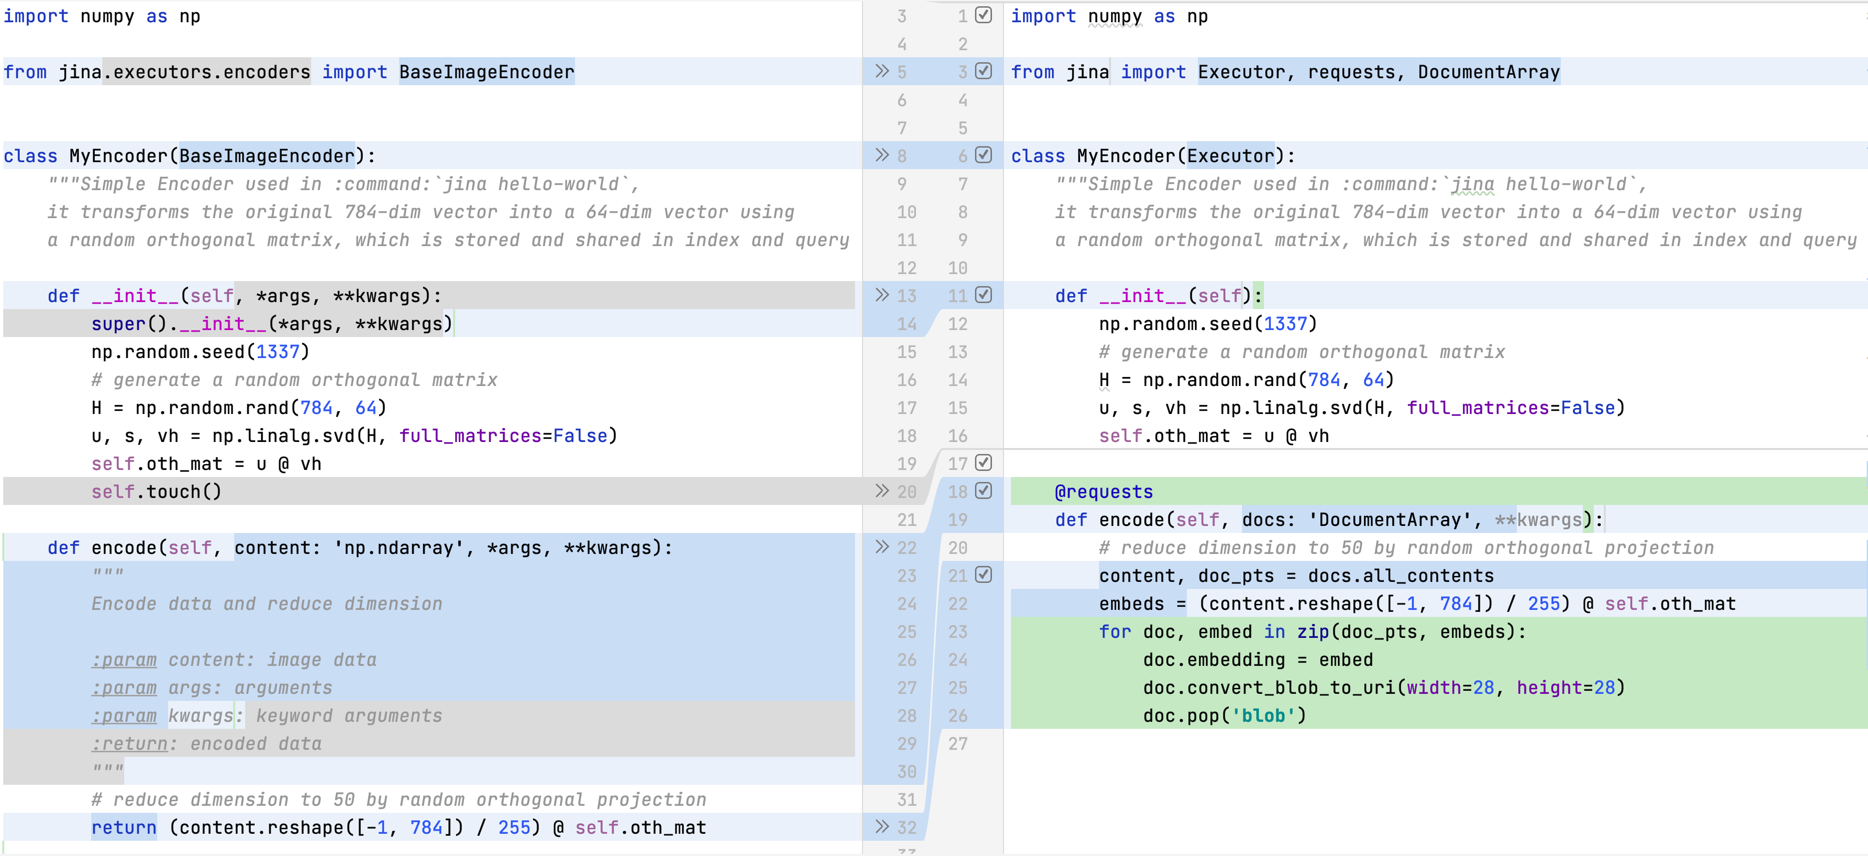
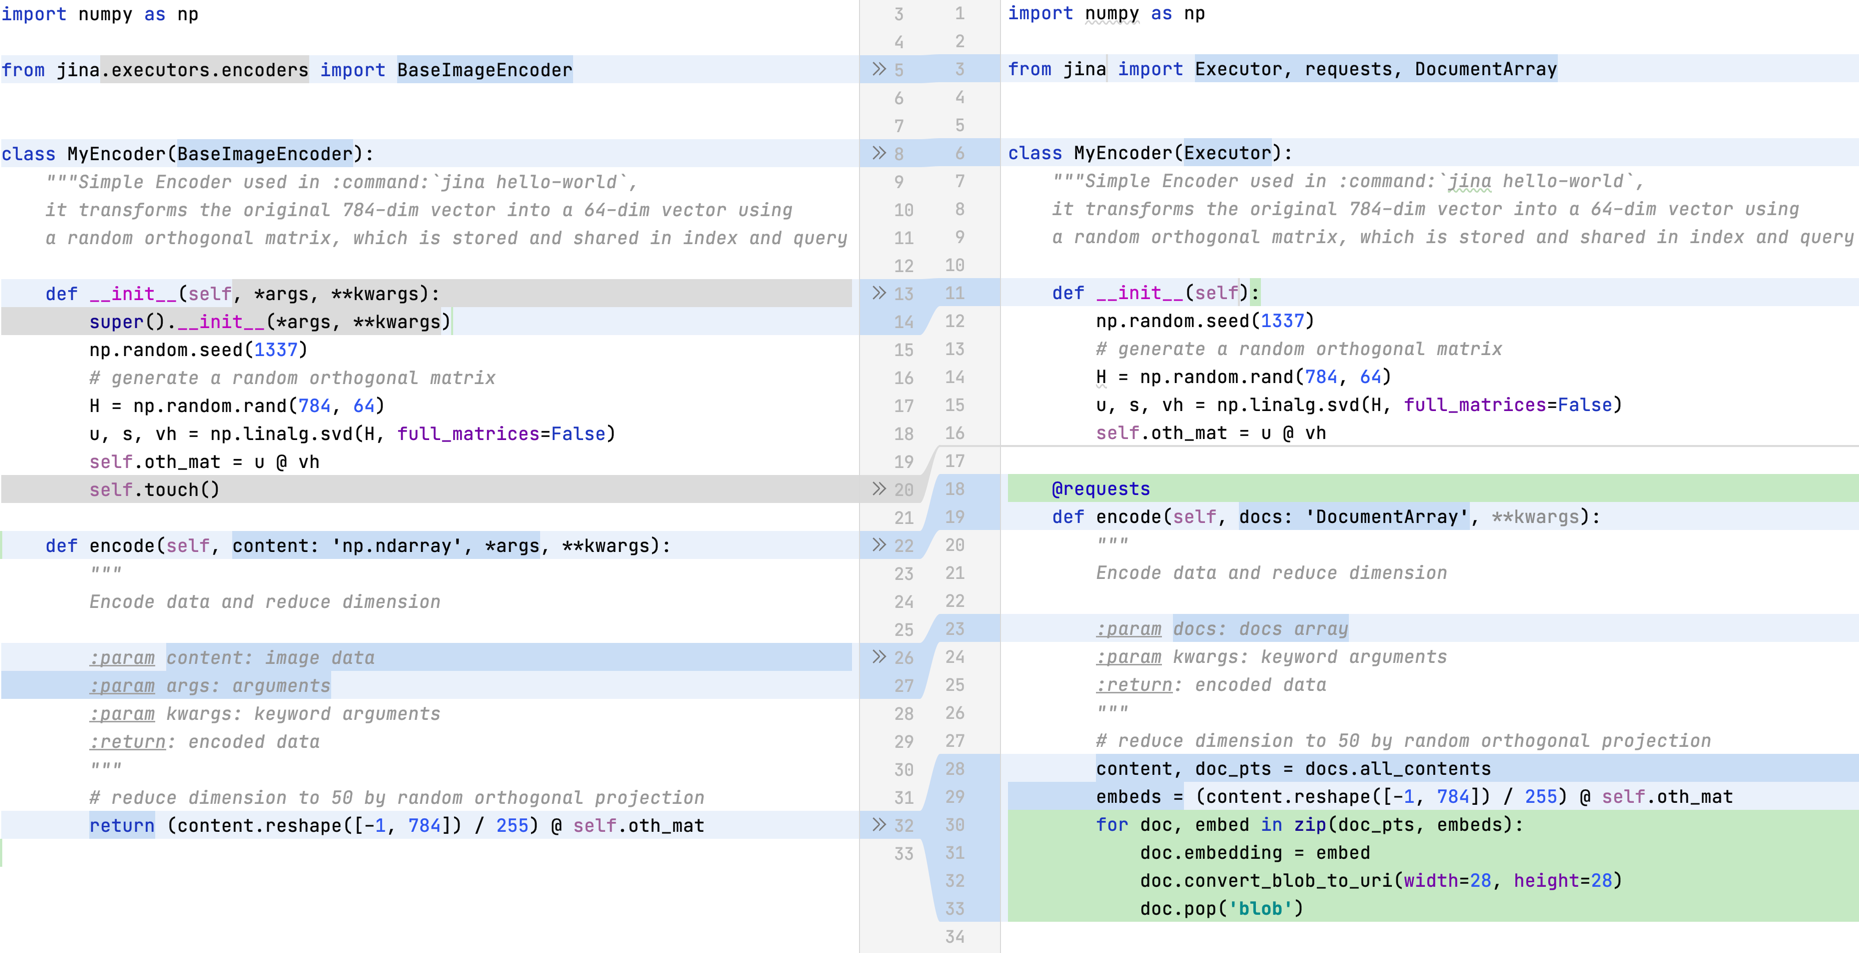
refactor: make a mwu running

diff --git a/jina/resources/fashion/components.py b/jina/resources/fashion/components.py
@@ -17,6 +17,13 @@ class MyEncoder(Executor):
 
     @requests
     def encode(self, docs: 'DocumentArray', **kwargs):
+        """
+        Encode data and reduce dimension
+
+        :param docs: docs array
+        :param kwargs: keyword arguments
+        :return: encoded data
+        """
         # reduce dimension to 50 by random orthogonal projection
         content, doc_pts = docs.all_contents
         embeds = (content.reshape([-1, 784]) / 255) @ self.oth_mat

diff --git a/COOKBOOK.md b/COOKBOOK.md
@@ -374,7 +374,7 @@ Comparing to 1.x Client/Flow API, the three new arguments are:
 
 Left is 1.x, right is 2.0.
 
-![img.png](.github/migration-fashion.png)
+![img.png](.github/migration-fashion.png?raw=true)
 
 Line number corresponds to the 1.x code:
 
